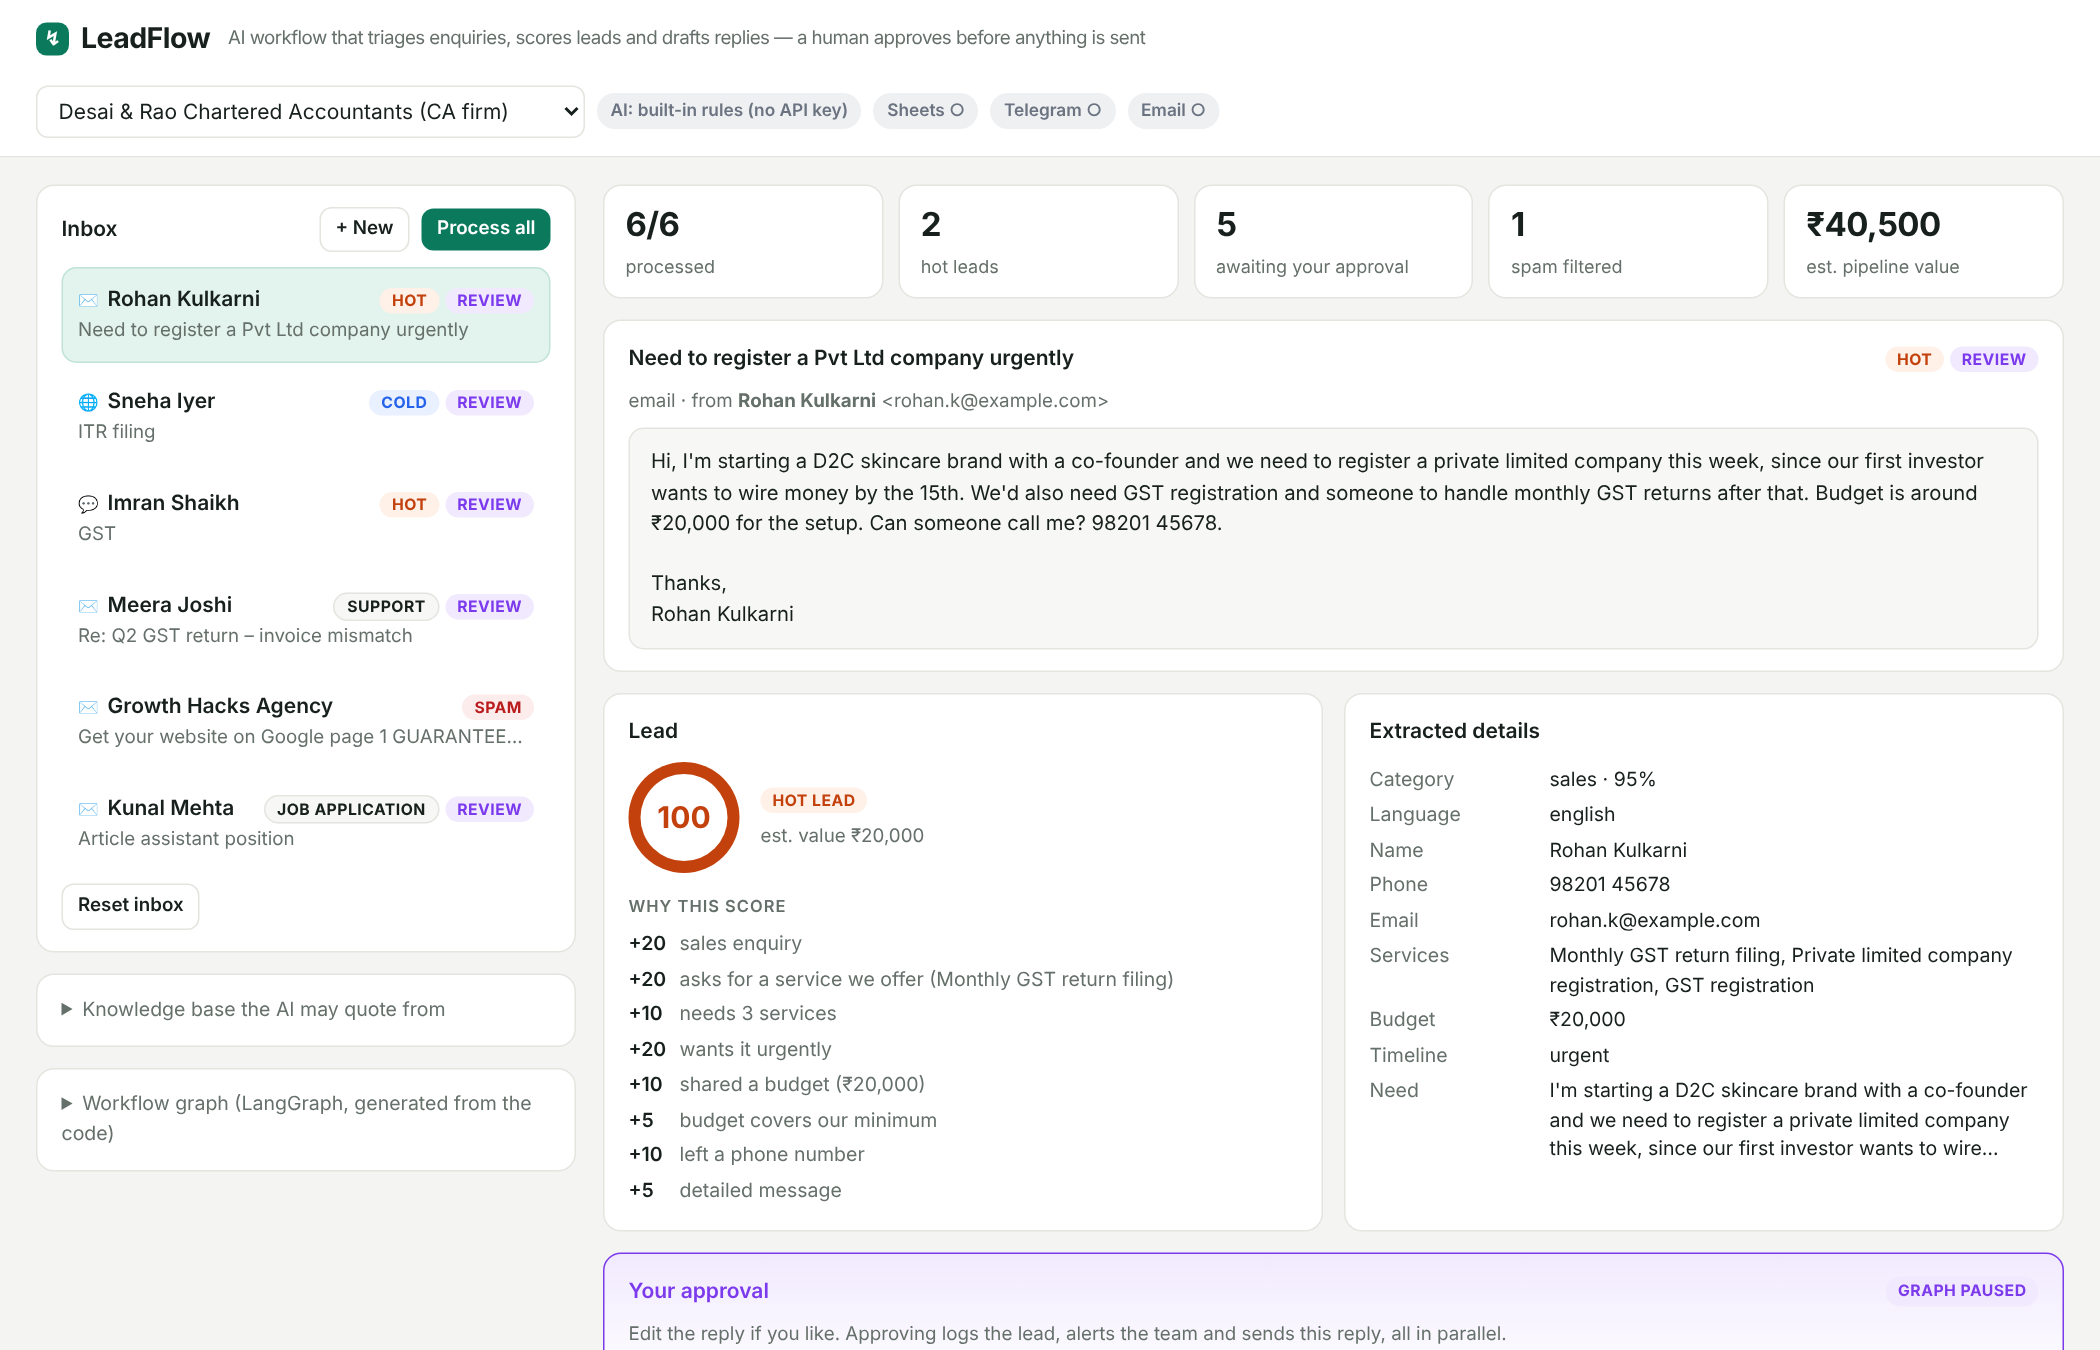
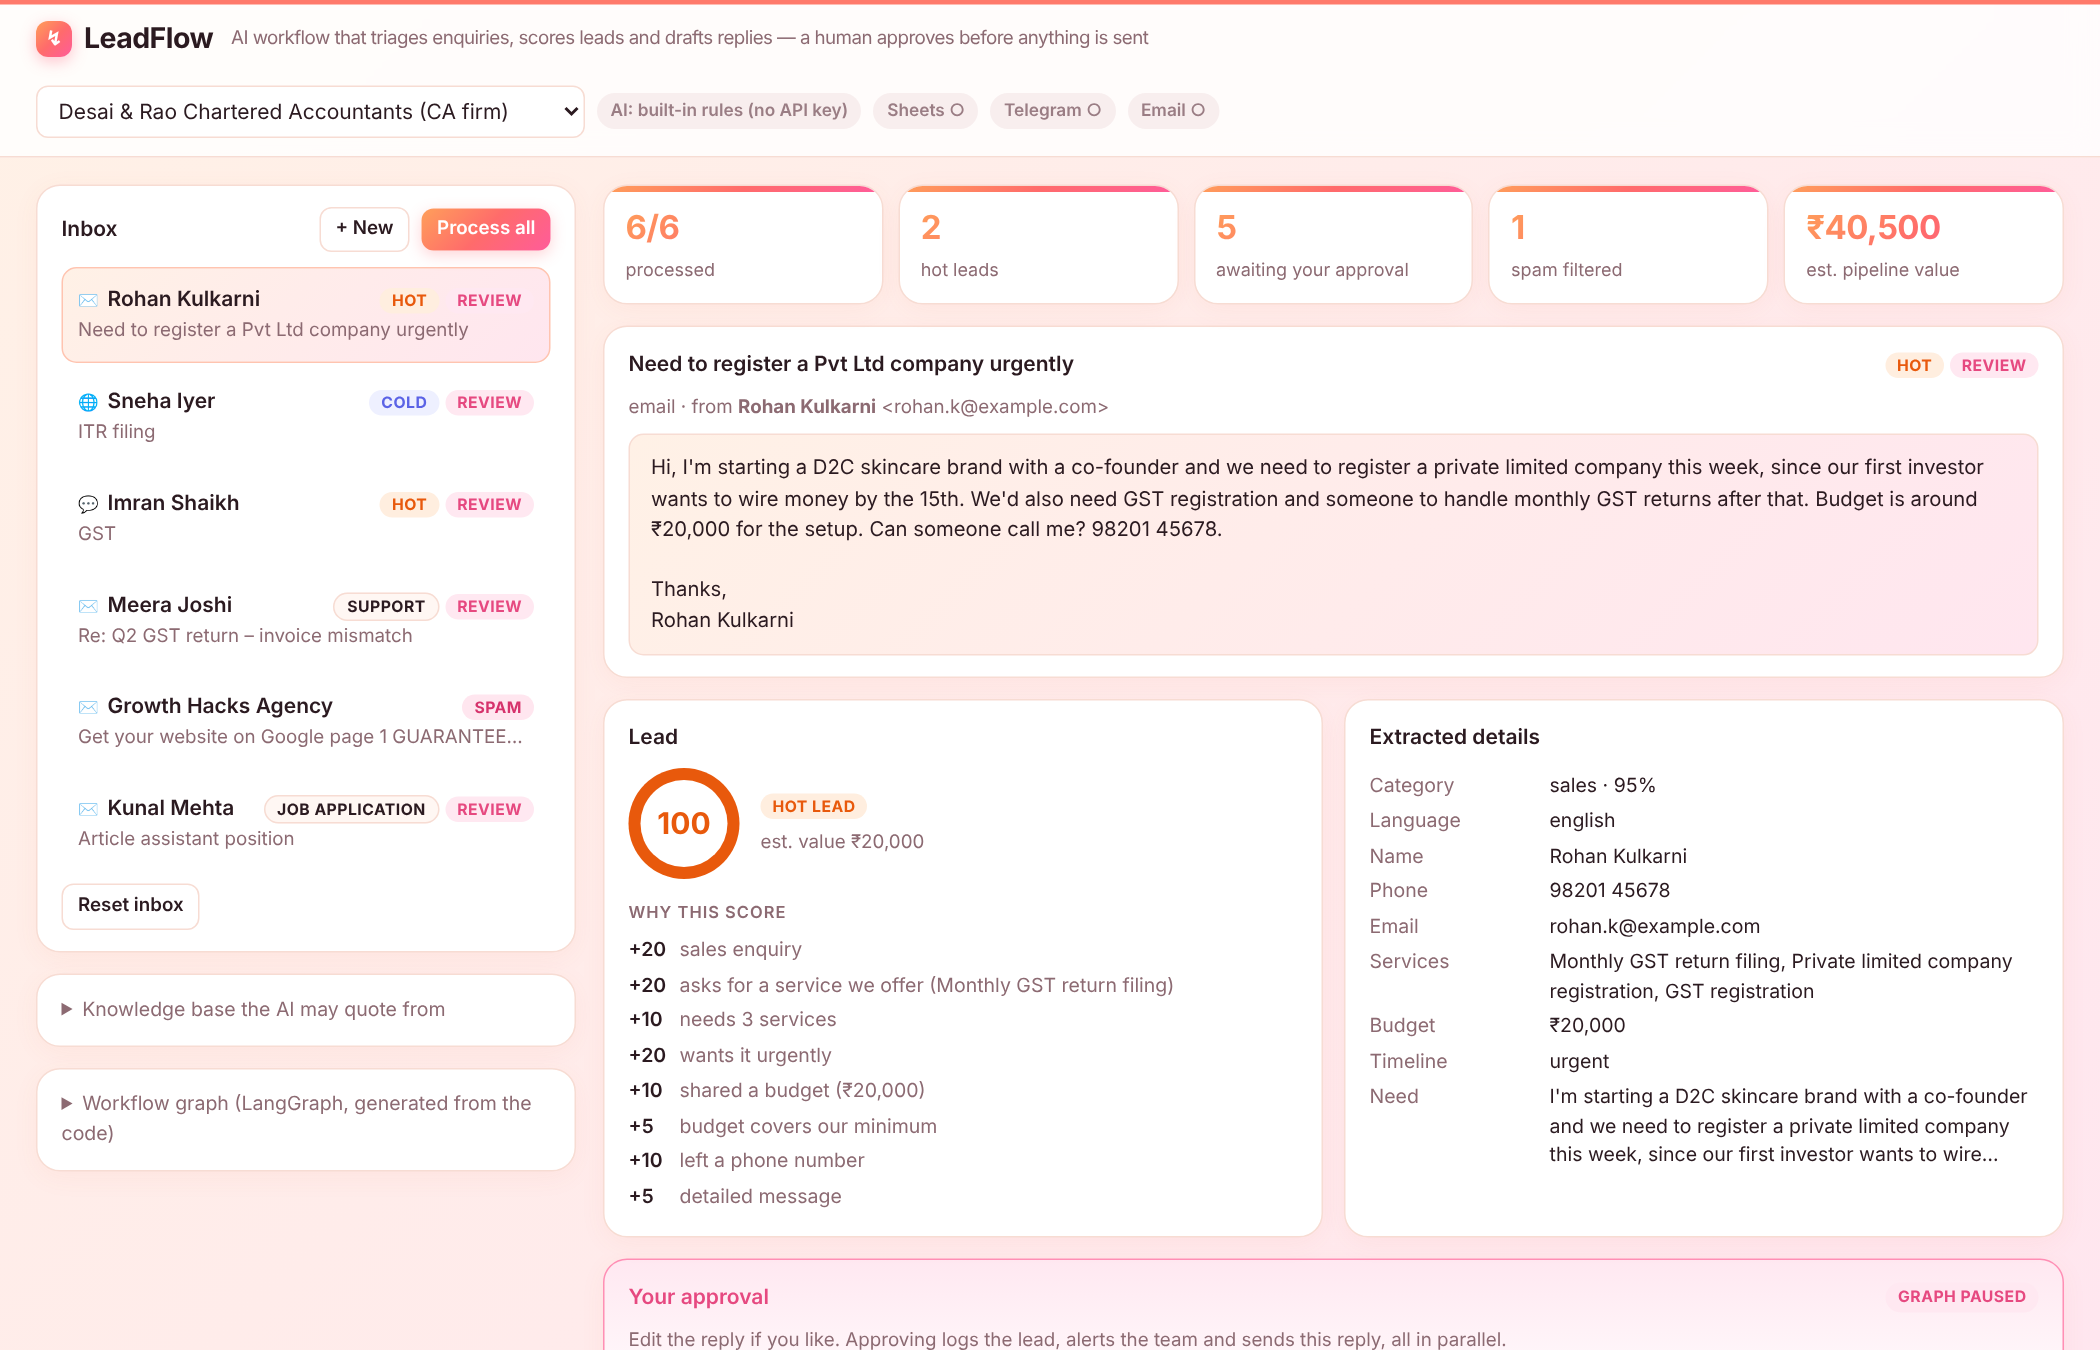
Restyle dashboard: warm peach, orange and pink theme
Claude-Session: https://claude.ai/code/session_01WxgZfEdLh7p9DnPUjCE2gy

diff --git a/public/index.html b/public/index.html
@@ -7,30 +7,31 @@
 <link rel="preconnect" href="https://fonts.googleapis.com">
 <link href="https://fonts.googleapis.com/css2?family=Inter:wght@400;500;600;700&family=JetBrains+Mono:wght@500&display=swap" rel="stylesheet">
 <style>
-:root{--bg:#f4f5f2;--panel:#fff;--panel2:#f7f8f6;--line:#e3e5df;--ink:#17201c;--mute:#66706a;--brand:#0b7a5c;--brand2:#e3f3ed;
---hot:#c2410c;--hotbg:#fff1e8;--warm:#a16207;--warmbg:#fdf6dd;--cold:#2563eb;--coldbg:#e9f0ff;--ok:#15803d;--okbg:#e7f6ec;--bad:#b91c1c;--badbg:#fdecec;
---llm:#2563eb;--llmbg:#e9f0ff;--human:#7c3aed;--humanbg:#f1eafe;--tool:#0b7a5c;--toolbg:#e3f3ed;--sim:#6b7280;--simbg:#eef0f2}
-*{box-sizing:border-box}body{margin:0;background:var(--bg);color:var(--ink);font:14px/1.5 Inter,system-ui,sans-serif}
-header{display:flex;gap:16px;justify-content:space-between;align-items:center;padding:12px 24px;background:var(--panel);border-bottom:1px solid var(--line);flex-wrap:wrap;position:sticky;top:0;z-index:5}
-.logo{font-weight:700;font-size:19px;letter-spacing:-.02em;display:flex;align-items:center;gap:8px}.logo i{width:22px;height:22px;border-radius:7px;background:var(--brand);display:inline-grid;place-items:center;color:#fff;font-style:normal;font-size:13px}
+:root{--bg:#fff6f1;--panel:#fff;--panel2:#fff7f3;--line:#f7dcd3;--ink:#2b1a20;--mute:#8c6a72;--brand:#f2643f;--brand2:#ffe9df;
+--grad:linear-gradient(135deg,#ff9f5a 0%,#ff6b6b 50%,#ff5c9a 100%);--soft:linear-gradient(135deg,#fff1e6 0%,#ffe6ef 100%);
+--hot:#e8590c;--hotbg:#ffeedf;--warm:#b7791f;--warmbg:#fff5d9;--cold:#5b63e6;--coldbg:#eef0ff;--ok:#2f9e44;--okbg:#e8f8ec;--bad:#d6336c;--badbg:#ffe6ef;
+--llm:#6d5ce8;--llmbg:#f0edff;--human:#e64980;--humanbg:#ffe8f1;--tool:#f2643f;--toolbg:#ffe9df;--sim:#9a7d84;--simbg:#f8eeee}
+*{box-sizing:border-box}body{margin:0;background:var(--bg) var(--soft) fixed;color:var(--ink);font:14px/1.5 Inter,system-ui,sans-serif}
+header{display:flex;gap:16px;justify-content:space-between;align-items:center;padding:12px 24px;background:rgba(255,255,255,.82);backdrop-filter:blur(10px);border-bottom:1px solid var(--line);box-shadow:inset 0 3px 0 0 #ff7a6b;flex-wrap:wrap;position:sticky;top:0;z-index:5}
+.logo{font-weight:700;font-size:19px;letter-spacing:-.02em;display:flex;align-items:center;gap:8px}.logo i{width:24px;height:24px;border-radius:8px;background:var(--grad);box-shadow:0 3px 10px rgba(255,92,120,.35);display:inline-grid;place-items:center;color:#fff;font-style:normal;font-size:13px}
 .sub{color:var(--mute);font-size:12.5px;margin-left:4px;font-weight:400}
 .hright{display:flex;gap:8px;align-items:center;flex-wrap:wrap}
-select,input,textarea{background:var(--panel);border:1px solid var(--line);border-radius:8px;color:var(--ink);padding:7px 10px;font:inherit}
+select,input,textarea{outline-color:#ff8a7a;background:var(--panel);border:1px solid var(--line);border-radius:8px;color:var(--ink);padding:7px 10px;font:inherit}
 textarea{width:100%;resize:vertical;font-size:13.5px;line-height:1.55}input{width:100%}
 .pill{font-size:11.5px;padding:3px 9px;border-radius:99px;font-weight:600;background:var(--simbg);color:var(--sim);white-space:nowrap}
 .pill.on{background:var(--toolbg);color:var(--tool)}.pill.llm{background:var(--llmbg);color:var(--llm)}
 main{display:grid;grid-template-columns:360px 1fr;gap:18px;padding:18px 24px;max-width:1400px;margin:auto}
 @media(max-width:960px){main{grid-template-columns:1fr;padding:12px}header{position:static}}
-.card{background:var(--panel);border:1px solid var(--line);border-radius:12px;padding:14px 16px;margin-bottom:14px}
+.card{background:var(--panel);border:1px solid var(--line);border-radius:16px;box-shadow:0 4px 18px rgba(242,100,63,.06);padding:14px 16px;margin-bottom:14px}
 h2{font-size:14px;margin:0 0 10px;font-weight:600;display:flex;justify-content:space-between;align-items:center;gap:8px}
 h3{font-size:11px;color:var(--mute);text-transform:uppercase;letter-spacing:.06em;margin:14px 0 6px;font-weight:600}
-.btn{background:var(--brand);color:#fff;border:0;border-radius:8px;padding:8px 14px;font:inherit;font-weight:600;cursor:pointer;white-space:nowrap}
-.btn.ghost{background:var(--panel);color:var(--ink);border:1px solid var(--line)}.btn.danger{background:var(--panel);color:var(--bad);border:1px solid #f3c9c9}
+.btn{background:var(--grad);color:#fff;border:0;box-shadow:0 3px 10px rgba(255,100,110,.28);border-radius:8px;padding:8px 14px;font:inherit;font-weight:600;cursor:pointer;white-space:nowrap}
+.btn.ghost{background:var(--panel);color:var(--ink);border:1px solid var(--line);box-shadow:none}.btn.danger{background:var(--panel);color:var(--bad);border:1px solid #f8c4d6;box-shadow:none}.btn:hover:not(:disabled){filter:brightness(1.04);transform:translateY(-1px)}.btn{transition:transform .12s,filter .12s}
 .btn.sm{padding:5px 10px;font-size:12.5px}.btn:disabled{opacity:.5;cursor:wait}.btns{display:flex;gap:8px;flex-wrap:wrap;align-items:center}
 .stats{display:grid;grid-template-columns:repeat(5,1fr);gap:10px;margin-bottom:14px}@media(max-width:1100px){.stats{grid-template-columns:repeat(3,1fr)}}
-.stat{background:var(--panel);border:1px solid var(--line);border-radius:12px;padding:10px 14px}.stat b{display:block;font-size:22px;letter-spacing:-.02em}.stat span{color:var(--mute);font-size:12px}
+.stat{background:var(--panel);border:1px solid var(--line);border-radius:16px;padding:12px 14px;position:relative;overflow:hidden;box-shadow:0 4px 18px rgba(242,100,63,.06)}.stat:before{content:"";position:absolute;left:0;top:0;right:0;height:4px;background:var(--grad)}.stat b{display:block;font-size:22px;letter-spacing:-.02em;background:var(--grad);-webkit-background-clip:text;background-clip:text;color:transparent}.stat span{color:var(--mute);font-size:12px}
 .inbox{list-style:none;margin:0;padding:0}.inbox li{padding:10px 10px;border-radius:10px;cursor:pointer;border:1px solid transparent;margin-bottom:4px}
-.inbox li:hover{background:var(--panel2)}.inbox li.sel{background:var(--brand2);border-color:#bfe3d4}
+.inbox li:hover{background:var(--panel2)}.inbox li.sel{background:var(--soft);border-color:#ffc4b0}
 .row1{display:flex;justify-content:space-between;gap:8px;align-items:center}.who{font-weight:600;overflow:hidden;text-overflow:ellipsis;white-space:nowrap}
 .subj{color:var(--mute);font-size:12.5px;white-space:nowrap;overflow:hidden;text-overflow:ellipsis;margin-top:2px}
 .chip{font-size:10.5px;font-weight:700;padding:2px 8px;border-radius:99px;white-space:nowrap;text-transform:uppercase;letter-spacing:.03em}
@@ -38,7 +39,7 @@ h3{font-size:11px;color:var(--mute);text-transform:uppercase;letter-spacing:.06e
 .c-spam,.c-rejected{background:var(--badbg);color:var(--bad)}.c-hot{background:var(--hotbg);color:var(--hot)}.c-warm{background:var(--warmbg);color:var(--warm)}.c-cold{background:var(--coldbg);color:var(--cold)}
 .c-cat{background:var(--panel2);color:var(--ink);border:1px solid var(--line)}
 .chan{font-size:11px;color:var(--mute);margin-right:6px}
-.msg{white-space:pre-wrap;background:var(--panel2);border:1px solid var(--line);border-radius:10px;padding:12px 14px;font-size:13.5px}
+.msg{white-space:pre-wrap;background:var(--soft);border:1px solid var(--line);border-radius:10px;padding:12px 14px;font-size:13.5px}
 .meta{color:var(--mute);font-size:12.5px;margin-bottom:8px}
 .grid2{display:grid;grid-template-columns:1fr 1fr;gap:14px}.grid3{display:grid;grid-template-columns:repeat(3,1fr);gap:12px}
 @media(max-width:1100px){.grid2,.grid3{grid-template-columns:1fr}}
@@ -46,7 +47,7 @@ h3{font-size:11px;color:var(--mute);text-transform:uppercase;letter-spacing:.06e
 .ring div{width:58px;height:58px;border-radius:50%;background:var(--panel);display:grid;place-items:center;font-weight:700;font-size:20px}
 .reasons{margin:0;padding-left:0;list-style:none;font-size:13px}.reasons li{padding:2px 0;color:var(--mute)}.reasons li b{color:var(--ink);font-weight:600;display:inline-block;min-width:34px}
 .fields{display:grid;grid-template-columns:110px 1fr;gap:4px 10px;font-size:13px}.fields dt{color:var(--mute)}.fields dd{margin:0;overflow-wrap:anywhere}
-.review{border:1.5px solid var(--human);background:linear-gradient(180deg,var(--humanbg),var(--panel) 90px)}.review h2{color:var(--human)}
+.review{border:1.5px solid #ff8fb5;background:linear-gradient(180deg,var(--humanbg),var(--panel) 110px)}.review h2{color:var(--human)}
 .check{font-size:12.5px;padding:6px 10px;border-radius:8px;margin:8px 0}.check.ok{background:var(--okbg);color:var(--ok)}.check.bad{background:var(--badbg);color:var(--bad)}
 .act{border:1px solid var(--line);border-radius:10px;padding:10px 12px;background:var(--panel2);font-size:13px}
 .act h4{margin:0 0 6px;font-size:13px;display:flex;justify-content:space-between;gap:6px;align-items:center}
@@ -61,14 +62,14 @@ h3{font-size:11px;color:var(--mute);text-transform:uppercase;letter-spacing:.06e
 .tag{font-size:10px;padding:1px 7px;border-radius:99px;margin-left:6px;font-weight:700}
 .tag.rules{background:var(--simbg);color:var(--sim)}.tag.llm{background:var(--llmbg);color:var(--llm)}.tag.human{background:var(--humanbg);color:var(--human)}.tag.tool{background:var(--toolbg);color:var(--tool)}.tag.simulated{background:var(--simbg);color:var(--sim)}.tag.manual{background:var(--warmbg);color:var(--warm)}
 .empty{color:var(--mute);text-align:center;padding:70px 20px}
-.banner{border-radius:10px;padding:10px 14px;font-weight:600;margin-bottom:14px}.banner.done{background:var(--okbg);color:var(--ok)}.banner.spam{background:var(--badbg);color:var(--bad)}
+.banner{border-radius:10px;padding:10px 14px;font-weight:600;margin-bottom:14px}.banner.done{background:var(--okbg);color:var(--ok);border:1px solid #c3ebcd}.banner.spam{background:var(--badbg);color:var(--bad)}
 details summary{cursor:pointer;color:var(--mute);font-size:13px}.mermaid{background:#fff;border-radius:10px;padding:10px;overflow:auto}
 pre.kb{white-space:pre-wrap;font-size:12.5px;background:var(--panel2);padding:10px;border-radius:8px;margin:8px 0 0}
 .spinner{display:inline-block;width:12px;height:12px;border:2px solid currentColor;border-right-color:transparent;border-radius:50%;animation:s .7s linear infinite;vertical-align:-2px;margin-right:6px}@keyframes s{to{transform:rotate(360deg)}}
-.modal{position:fixed;inset:0;background:rgba(10,20,15,.35);display:none;place-items:center;z-index:20;padding:16px}.modal.open{display:grid}
+.modal{position:fixed;inset:0;background:rgba(60,20,30,.3);display:none;place-items:center;z-index:20;padding:16px}.modal.open{display:grid}
 .modal .card{width:min(560px,100%);margin:0}.modal label{display:block;color:var(--mute);font-size:12px;margin:10px 0 4px}
 .err{background:var(--badbg);color:var(--bad);padding:8px 12px;border-radius:8px;margin:8px 0;font-size:13px}
-footer{color:var(--mute);font-size:12px;text-align:center;padding:4px 0 26px}footer a{color:var(--brand)}
+footer{color:var(--mute);font-size:12px;text-align:center;padding:4px 0 26px}footer a{color:var(--human)}
 </style>
 </head>
 <body>
@@ -116,7 +117,7 @@ footer{color:var(--mute);font-size:12px;text-align:center;padding:4px 0 26px}foo
 
 <script type="module">
 import mermaid from "https://cdn.jsdelivr.net/npm/mermaid@11/dist/mermaid.esm.min.mjs";
-window._mermaid = mermaid; mermaid.initialize({startOnLoad:false, theme:"neutral"}); if (window._graphSrc) window.renderGraph();
+window._mermaid = mermaid; mermaid.initialize({startOnLoad:false, theme:"base", themeVariables:{primaryColor:"#ffe9df", primaryBorderColor:"#f2643f", lineColor:"#e64980", fontFamily:"Inter"}}); if (window._graphSrc) window.renderGraph();
 </script>
 <script>
 const $ = id => document.getElementById(id);
